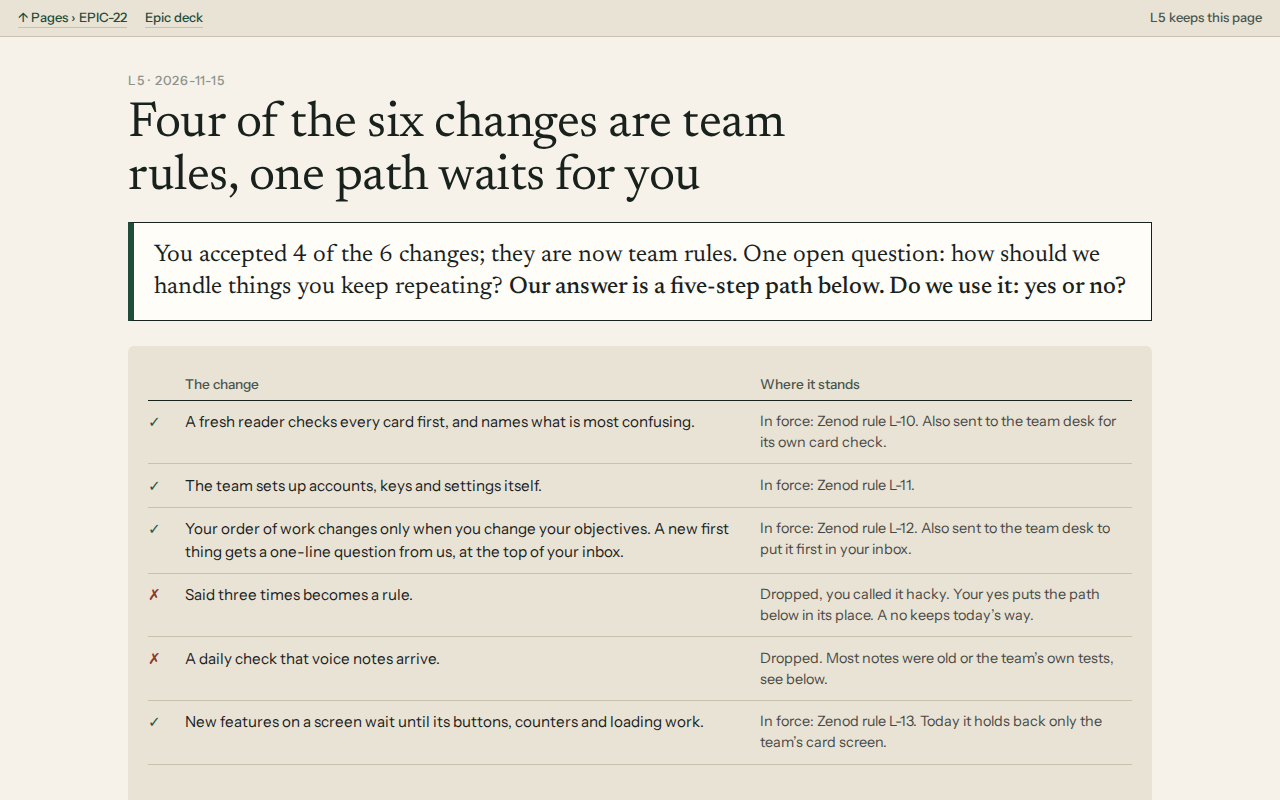
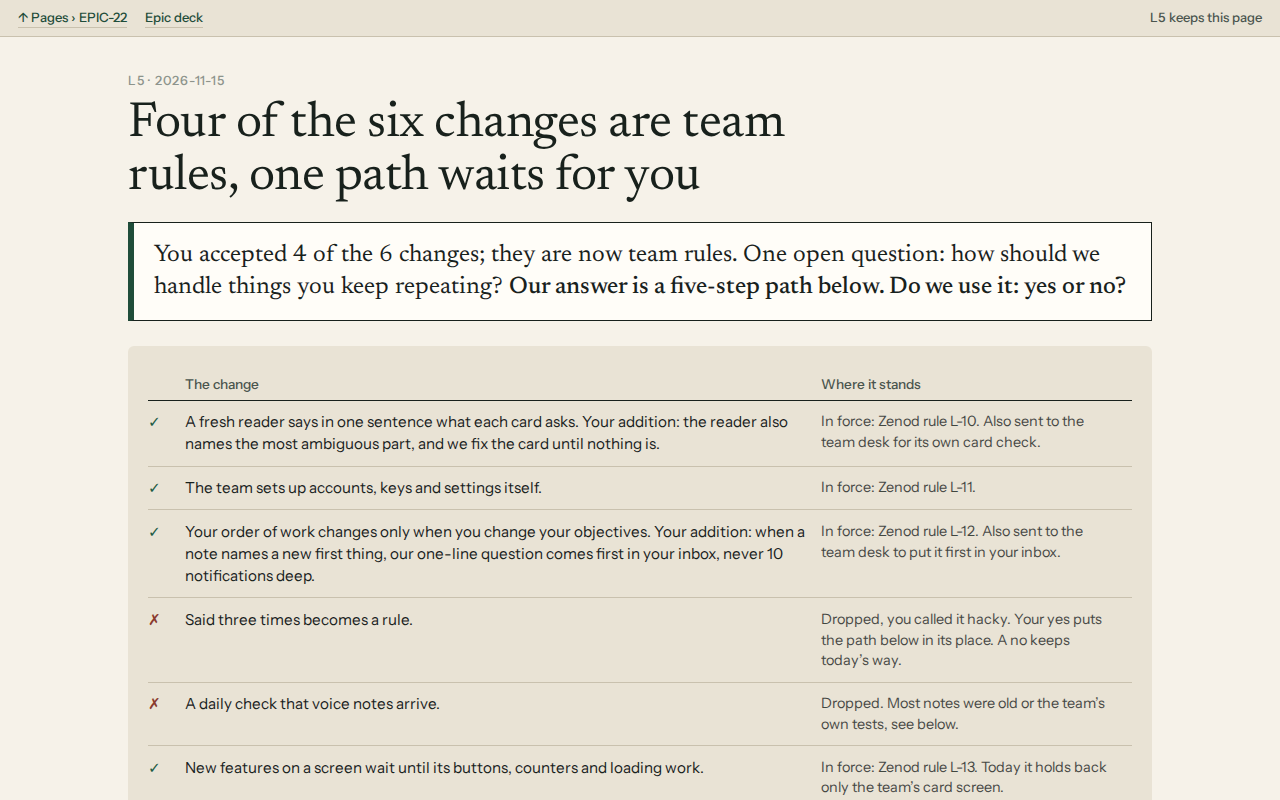
L5 iteration 3: page shows his two additions in the table, phone flow in one line (card QC)
Run: run_82876835-e474-44da-8812-fe28d0d62d9d

diff --git a/docs/evidence/e22-l5-2026-11-14.md b/docs/evidence/e22-l5-2026-11-14.md
@@ -124,6 +124,6 @@ None since 11 Nov; Zenod's voice capture works, as he said. Dropped, nothing ask
 
 All three rounds named the right ask. Round 3's (b) was fixed after the round; the brief's limit of 3 rounds was reached, so no round 4 ran. Smaller items left as they are: rule codes L-10 to L-13 on the page (he asked where each lives).
 
-Checks: agent_team `text_wall_check.py` (leads with a box), `clean_look_check.py` (clean); captured at 390 and 1280 px with `card_qc_shots.mjs`; at 390 px the five steps stack top to bottom, no sideways scroll. Builder: `build_page_v3.py` beside the three-pass output (private, it holds the quotes and asserts the 70 = 21 + 20 + 29 split).
+Checks: agent_team `text_wall_check.py` (leads with a box), `clean_look_check.py` (clean); captured at 390 and 1280 px with `card_qc_shots.mjs`; at 390 px the five steps stay one compact line with a numbered list under it, no sideways scroll; rows 1 and 3 of the table carry his two additions word for word (card QC round 1 held the card for missing them). Builder: `build_page_v3.py` beside the three-pass output (private, it holds the quotes and asserts the 70 = 21 + 20 + 29 split).
 
 Also: the old per-page unit `zenod-e22-l5-threepass.service` was crash-looping (port 9006 is served by the page hub since E6-S94); stopped, it stays disabled.
